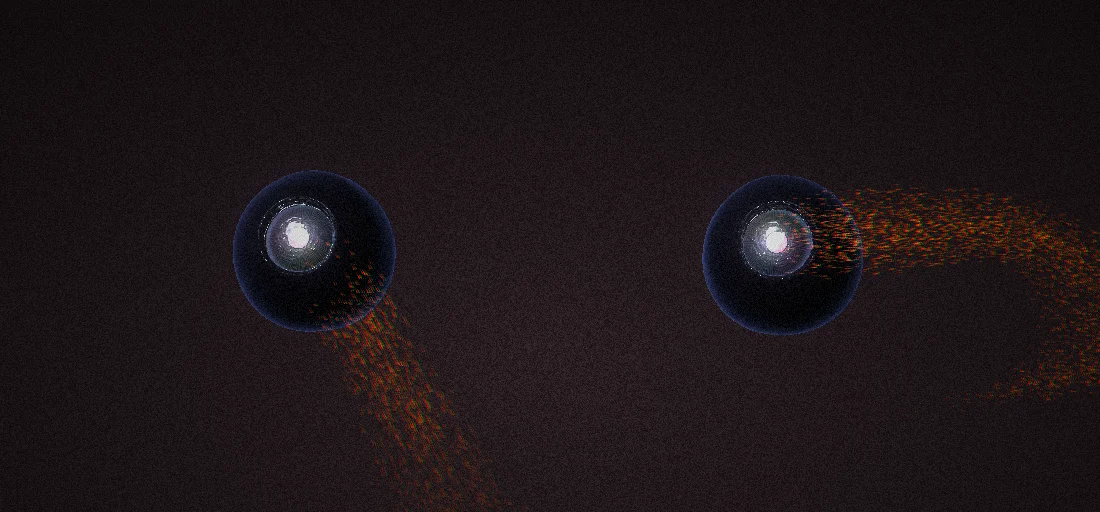
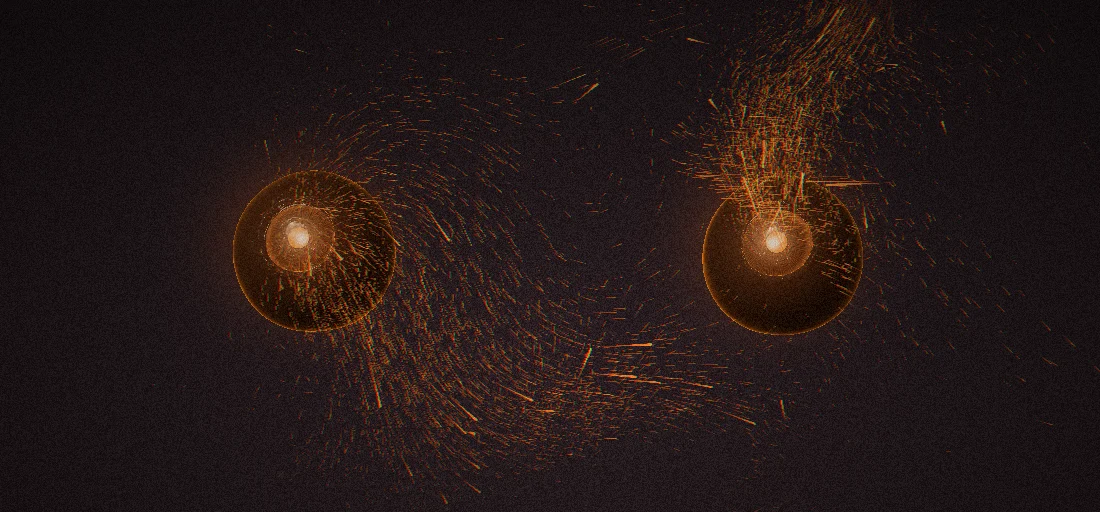
Now: the bonfire pours from the pupils and whirls across the screen
Each pupil throws its sparks out along its gaze, then the curl current takes
over. Most sparks burn out near the eye and a share travel to the corners.
Streaks are short hairline dashes plus one in eighty long bright ones. A
half-float buffer and a blended tone-map let dense fire turn gold without
clipping. The eyes are warm: a white-hot pupil, a crisp #fb710c rim and a
bloom. There is a 5 s warm-up, and the edge line is dimmed on this page.

diff --git a/src/stage/eyes.js b/src/stage/eyes.js
@@ -57,15 +57,15 @@ void main(){
   float phi = acos(clamp(normalize(vQ).z, -1., 1.)), alpha = atan(vQ.y, vQ.x), r = length(vQ.xy);
   vec3 g;
   if (c == 0) {                                   // sclera: dark glass, a cool rim, the faintest rings of latitude
-    g = vec3(.42, .52, .95)*rim*.55 + vec3(.5, .55, .75)*ndl*.06;
+    g = vec3(.984, .443, .047)*(pow(rim, 4.)*1.6 + rim*.25) + vec3(.6, .45, .38)*ndl*.07;   // a crisp #fb710c edge
   } else if (c == 2) {                            // iris: spokes of light in the fibres' colours, brightest at the pupil
     float fib = .5 + .5*sin(alpha*120. + sin(alpha*17.)*3.), limbus = exp(-pow(r - 5.4, 2.)*3.);
-    g = mix(vec3(.7, .85, 1.), wheel(alpha/6.2831853 + uTime*.035 + (vSide > .5 ? .5 : 0.)), .5)*(fib*.22 + .06)*(.5 + .5*exp(-(r - 1.7)*.5)) + vec3(.55, .7, 1.)*limbus*.32;
+    g = mix(vec3(1., .18, .05), vec3(.984, .443, .047), fib)*(fib*.3 + .08)*(.5 + .5*exp(-(r - 1.7)*.5)) + vec3(1., .5, .18)*limbus*.4;
   } else if (c == 3) {                            // the pupil: white-hot
-    g = mix(vec3(.95, .6, 1.), vec3(1.), smoothstep(1.4, .3, r))*.75;
+    g = mix(vec3(1., .45, .1), vec3(1., .97, .9), smoothstep(1.6, .2, r))*1.8;   // white-hot at the centre
   } else {                                        // the cornea: clear, a glint
     float spec = pow(clamp(dot(reflect(-l, n), v), 0., 1.), 80.);
-    g = vec3(.8, .95, 1.)*(spec*1.4 + rim*.12);
+    g = vec3(1., .88, .75)*spec*1.2 + vec3(.95, .45, .2)*rim*.1;
   }
   o = vec4(g, max(g.r, max(g.g, g.b)));
 }`;
@@ -96,7 +96,7 @@ uniform float uFade;
 out vec4 o;
 void main(){
   float r2 = dot(vQ, vQ);
-  vec3 g = (vec3(1., .92, 1.)*exp(-r2*90.)*.5 + vec3(.7, .55, 1.)*exp(-r2*14.)*.08)*uFade;
+  vec3 g = (vec3(1., .82, .6)*exp(-r2*90.)*.45 + vec3(1., .42, .12)*exp(-r2*8.)*.3)*uFade;   // a warm bloom round each pupil
   o = vec4(g, max(g.r, max(g.g, g.b)));
 }`;
 
@@ -110,7 +110,9 @@ float random(vec2 n, float offset){ return .5 - fract(sin(dot(n.xy + vec2(offset
 void main(){
   vec4 b = texture(uBase, vUv);
   vec3 bg = vec3(.149, .106, .122)*uFade;                       // #261b1f, the original's warm dark
-  vec3 c = bg*(1. - b.a) + b.rgb;
+  float m = max(b.r, max(b.g, b.b));
+  vec3 keep = b.rgb*(1. - exp(-1.3*m))/max(m, 1e-4), each = 1. - exp(-1.3*b.rgb);    // tone that keeps the hue, and tone that lets dense fire turn gold
+  vec3 c = bg*(1. - min(b.a, 1.)) + mix(keep, each, .45);                           // half of each: gold where it is dense, never a flat clip or cream
   c += vec3(.1*random(vUv, uTime))*uFade;                       // fine grain
   c *= mix(1., 1.1 - length(vUv - .5)*1.1, uFade);              // darker towards the corners
   c = max(c, 0.);
@@ -132,7 +134,7 @@ export function createEyes(canvas, mesh, json, { preserve = false, lite = false,
   const eye = program(gl, EYE_VS, EYE_FS), halo = program(gl, HALO_VS, HALO_FS);
   if (!eye || !halo) return null;
   // the original moves 262,144 particles; here half that on a desktop, an eighth on a phone, fewer in frozen review frames
-  const sparks = createSparks(gl, { count: preserve ? 8192 : lite ? 32768 : 131072, CAM, GLOW_FS });
+  const sparks = createSparks(gl, { count: preserve ? 8192 : lite ? 49152 : 131072, CAM, GLOW_FS });
   if (!sparks) return null;
 
   const vao = gl.createVertexArray(); gl.bindVertexArray(vao);
@@ -147,14 +149,15 @@ export function createEyes(canvas, mesh, json, { preserve = false, lite = false,
   const qvao = gl.createVertexArray(); gl.bindVertexArray(qvao);
   { gl.bindBuffer(gl.ARRAY_BUFFER, gl.createBuffer()); gl.bufferData(gl.ARRAY_BUFFER, new Float32Array([-1, -1, 1, -1, -1, 1, 1, 1]), gl.STATIC_DRAW); const l = final.a('aP'); gl.enableVertexAttribArray(l); gl.vertexAttribPointer(l, 2, gl.FLOAT, false, 0, 0); }
   // targets: the full frame (with depth) and two quarter-size buffers for the blur; remade when the size changes
-  const tex = (w, h) => { const t = gl.createTexture(); gl.bindTexture(gl.TEXTURE_2D, t); gl.texImage2D(gl.TEXTURE_2D, 0, gl.RGBA8, w, h, 0, gl.RGBA, gl.UNSIGNED_BYTE, null); gl.texParameteri(gl.TEXTURE_2D, gl.TEXTURE_MIN_FILTER, gl.LINEAR); gl.texParameteri(gl.TEXTURE_2D, gl.TEXTURE_MAG_FILTER, gl.LINEAR); gl.texParameteri(gl.TEXTURE_2D, gl.TEXTURE_WRAP_S, gl.CLAMP_TO_EDGE); gl.texParameteri(gl.TEXTURE_2D, gl.TEXTURE_WRAP_T, gl.CLAMP_TO_EDGE); return t; };
+  const hdr = !!gl.getExtension('EXT_color_buffer_float') || !!gl.getExtension('EXT_color_buffer_half_float');   // dense fire adds past 1: keep it, and tone it down at the end
+  const tex = (w, h, deep) => { const t = gl.createTexture(); gl.bindTexture(gl.TEXTURE_2D, t); if (deep && hdr) gl.texImage2D(gl.TEXTURE_2D, 0, gl.RGBA16F, w, h, 0, gl.RGBA, gl.HALF_FLOAT, null); else gl.texImage2D(gl.TEXTURE_2D, 0, gl.RGBA8, w, h, 0, gl.RGBA, gl.UNSIGNED_BYTE, null); gl.texParameteri(gl.TEXTURE_2D, gl.TEXTURE_MIN_FILTER, gl.LINEAR); gl.texParameteri(gl.TEXTURE_2D, gl.TEXTURE_MAG_FILTER, gl.LINEAR); gl.texParameteri(gl.TEXTURE_2D, gl.TEXTURE_WRAP_S, gl.CLAMP_TO_EDGE); gl.texParameteri(gl.TEXTURE_2D, gl.TEXTURE_WRAP_T, gl.CLAMP_TO_EDGE); return t; };
   const fbo = (t, depth) => { const f = gl.createFramebuffer(); gl.bindFramebuffer(gl.FRAMEBUFFER, f); gl.framebufferTexture2D(gl.FRAMEBUFFER, gl.COLOR_ATTACHMENT0, gl.TEXTURE_2D, t, 0); if (depth) gl.framebufferRenderbuffer(gl.FRAMEBUFFER, gl.DEPTH_ATTACHMENT, gl.RENDERBUFFER, depth); gl.bindFramebuffer(gl.FRAMEBUFFER, null); return f; };
   let post = null;
   const makePost = (W, H) => {
     if (post) { for (const t of post.tex) gl.deleteTexture(t); for (const f of post.fb) gl.deleteFramebuffer(f); gl.deleteRenderbuffer(post.depth); }
     const qw = Math.max(1, W >> 2), qh = Math.max(1, H >> 2), depth = gl.createRenderbuffer();
     gl.bindRenderbuffer(gl.RENDERBUFFER, depth); gl.renderbufferStorage(gl.RENDERBUFFER, gl.DEPTH_COMPONENT24, W, H);
-    const t = [tex(W, H), tex(qw, qh), tex(qw, qh)];
+    const t = [tex(W, H, true), tex(qw, qh), tex(qw, qh)];
     post = { W, H, qw, qh, depth, tex: t, fb: [fbo(t[0], depth), fbo(t[1]), fbo(t[2])] };
   };
   const pass = (pr, target, w, h, setup) => { gl.bindFramebuffer(gl.FRAMEBUFFER, target); gl.viewport(0, 0, w, h); gl.useProgram(pr.p); setup(pr.u); gl.drawArrays(gl.TRIANGLE_STRIP, 0, 4); };
@@ -199,10 +202,11 @@ export function createEyes(canvas, mesh, json, { preserve = false, lite = false,
       // the sparks: a fixed step, however the frames come; a frozen moment (review, reduced motion) is reached by
       // running the last five seconds before it, so it is the same every time
       if (!NO_SPARKS) {
-        const run = (from, to, most = Infinity) => { let k = from, n = 0; while (k + STEP <= to + 1e-9 && n++ < most) { k += STEP; sparks.step(k, { pupils: eyesAt(k).pupils, zmax: CAMERA - 25, speed: 0.55, freq: 0.0045, spawn: 7 }); } return k; };
+        const run = (from, to, most = Infinity) => { let k = from, n = 0; while (k + STEP <= to + 1e-9 && n++ < most) { k += STEP; const e = eyesAt(k); sparks.step(k, { pupils: e.pupils.map((p, i) => p.map((v, j) => v + e.gaze[i][j] * 3)), dirs: e.gaze,   // born at the face of each pupil and thrown out along its gaze
+           zmax: CAMERA - 25, speed: 0.4, freq: 0.0075, spawn: 5, push: 1.3, reach: 32, long: lite ? [0.25, 5] : [0.18, 4] }); } return k; };
         if (fixed.age != null) { if (simT !== time) { sparks.reset(); run(time - 1.5, time); simT = time; } }   // a frozen frame: the same second and a half before it, every time
         else {
-          if (simT == null) simT = run(time - 2, time);                // the first look already has the fire going
+          if (simT == null) simT = run(time - 5, time);                // the first look already has the fire going, across the whole screen
           else if (time - simT > 0.2) simT = time - STEP;              // after a pause, carry on rather than catch up
           simT = run(simT, time, 4);                                   // at most four steps a frame, as in the original
         }
@@ -224,10 +228,10 @@ export function createEyes(canvas, mesh, json, { preserve = false, lite = false,
       if (!NO_SPARKS) {
         const sp = { u: sparks.uniforms };
         gl.useProgram(sparks.program); cam(sp);
-        gl.uniform1f(sp.u.uGain, lite ? 0.5 : 0.6); gl.uniform1f(sp.u.uFade, fade);
+        gl.uniform1f(sp.u.uGain, lite ? 1.2 : 1.05); gl.uniform1f(sp.u.uFade, fade);
         gl.uniform4f(sp.u.uText, wr.left * s, (vh - wr.bottom) * s, wr.right * s, (vh - wr.top) * s);
         gl.uniform4f(sp.u.uNav, nr.left * s, (vh - nr.bottom) * s, nr.right * s, (vh - nr.top) * s);
-        sparks.draw([W / 2, H / 2], 0.55 * s);
+        sparks.draw([W / 2, H / 2], 0.38 * s, { trail: 8, pupils });
       }
 
       // and the bloom of light at each pupil

diff --git a/src/stage/sparks.js b/src/stage/sparks.js
@@ -38,7 +38,7 @@ vec3 curl(vec3 p){                                    // forward differences: fo
 
 const UPDATE_VS = `#version 300 es
 in vec4 aState; in float aSeed;                       // position, life; a fixed random number per particle
-uniform float uTime, uSpeed, uFreq, uSpawn, uZmax; uniform vec3 uPupil0, uPupil1;
+uniform float uTime, uSpeed, uFreq, uSpawn, uZmax, uPush, uReach; uniform vec2 uLong; uniform vec3 uPupil0, uPupil1, uDir0, uDir1;
 out vec4 oState; out vec4 oPrev; out float oSeed;
 ${NOISE}
 float hash(float n){ return fract(sin(n)*43758.5453123); }
@@ -51,12 +51,16 @@ void main(){
     float k = aSeed*7.13 + floor(uTime*13.)*1.618;
     vec3 r = vec3(hash(k), hash(k + 1.7), hash(k + 3.1))*2. - 1.;
     vec3 P = mod(floor(aSeed), 2.) < .5 ? uPupil0 : uPupil1;
-    s = vec4(P + normalize(r + 1e-4)*pow(hash(k + 4.3), .5)*uSpawn, 20. + 80.*hash(k + 5.9));
+    s = vec4(P + normalize(r + 1e-4)*pow(hash(k + 4.3), .5)*uSpawn, (3. + 37.*pow(hash(k + 5.9), 3.))*(hash(k + 7.7) < uLong.x ? uLong.y : 1.));   // most burn out near the eye; a share (uLong.x) live uLong.y times as long and travel far
     oPrev = vec4(s.xyz, s.w + 1.);                     // a fresh particle draws nothing on its first step
   } else {
     oPrev = s;
     vec3 q = s.xyz*uFreq + vec3(uTime*.17, uTime*.11, uTime*.13);
-    s.xyz += uSpeed*(curl(q)*.5 + curl(q*2.)*.25);    // a broad current with a finer one on top
+    bool left = mod(floor(aSeed), 2.) < .5;
+    vec3 P = left ? uPupil0 : uPupil1, D = left ? uDir0 : uDir1;
+    vec3 fan = vec3(hash(aSeed*3.7), hash(aSeed*5.3), hash(aSeed*9.1))*2. - 1.;          // each spark's own angle off the gaze
+    float jet = uPush*exp(-length(s.xyz - P)/uReach);                                   // thrown out of the pupil, then let go
+    s.xyz += uSpeed*(curl(q)*.5 + curl(q*2.3)*.4) + jet*normalize(D + .55*fan);       // a broad current with a finer one on top
     s.w = s.w - .05 <= 0. ? -.01 : s.w - .05;           // burnt out: born again on a later step
   }
   oState = s; oSeed = aSeed;
@@ -81,21 +85,24 @@ export function createSparks(gl, { count, CAM, GLOW_FS }) {
   const DRAW_VS = `#version 300 es
 in vec2 aCorner; in vec4 iState; in vec4 iPrev; in float iSeed;
 ${CAM}
-uniform vec2 uRes, uShift; uniform float uPx;
-out vec2 vLocal; out float vLen; out float vRad;
+uniform vec2 uRes, uShift; uniform float uPx, uTrail; uniform vec3 uPupil0, uPupil1;
+out vec2 vLocal; out float vLen; out float vRad; out float vNear; out float vBoost;
 void main(){
-  vec4 h = camera(iState.xyz), t = camera(iPrev.xyz);
+  bool big = fract(iSeed*.3819) > .9875;                                                   // one in eighty: a long, thick, bright streak
+  float trail = big ? uTrail : 2. + 2.*fract(iSeed*.7548);                                // the rest: short, crisp dashes, two to four steps
+  vec4 h = camera(iState.xyz), t = camera(iState.xyz + (iPrev.xyz - iState.xyz)*trail);   // drawn along its motion
   vec2 sh = h.xy/h.w*uRes, st = t.xy/t.w*uRes, d = sh - st; float L = length(d);
   vec2 dir = L > .001 ? d/L : vec2(1., 0.), nrm = vec2(-dir.y, dir.x);
-  float size = .5 + 1.5*fract(iSeed*.6180339), r = uPx*size*clamp(400./h.w, .25, 12.);   // nearer: wider, by perspective
+  float size = .5 + 1.5*fract(iSeed*.6180339), r = uPx*size*(big ? 1.8 : .75)*clamp(400./h.w, .25, 12.);   // dashes are hairlines; only the long streaks are thick   // nearer: wider, by perspective
   vec2 pos = mix(st - dir*r, sh + dir*r, aCorner.x) + nrm*aCorner.y*r;
   bool dead = iPrev.w < iState.w || iState.w <= 0. || h.w < 8.;
   gl_Position = dead ? vec4(2., 2., 2., 1.) : vec4((pos + uShift*uRes)/uRes*h.w, h.z/h.w*h.w, h.w);
-  vLocal = vec2(mix(-r, L + r, aCorner.x), aCorner.y*r); vLen = L; vRad = r;
+  vLocal = vec2(mix(-r, L + r, aCorner.x), aCorner.y*r); vLen = L; vRad = r; vBoost = big ? 2.5 : 1.;
+  vNear = smoothstep(1.5, 9., min(length(iState.xyz - uPupil0), length(iState.xyz - uPupil1)));   // the pupil itself stays clear: the fire leaves it
 }`;
   const DRAW_FS = `#version 300 es
 precision highp float;
-in vec2 vLocal; in float vLen; in float vRad;
+in vec2 vLocal; in float vLen; in float vRad; in float vNear; in float vBoost;
 uniform vec3 uMask;
 ${GLOW_FS}
 out vec4 o;
@@ -103,8 +110,8 @@ void main(){
   float a = clamp(vLocal.x/max(vLen, 1e-3), 0., 1.);                        // 0 at the tail, 1 at the head
   float r = vRad*mix(.1, 1., a), dist = length(vec2(vLocal.x - a*vLen, vLocal.y));
   float edge = 1. - smoothstep(r*.78, r, dist);
-  vec3 col = mix(vec3(1., 0., 0.), vec3(.984, .443, .047), .5 + .5*a);     // red at the tail, orange (#fb710c) at the head
-  float alpha = edge*a*uGain*clearOfWords()*uFade;
+  vec3 col = mix(vec3(1., .12, .08), vec3(1., .44, .12), .5 + .5*a);       // red at the tail, orange at the head: only the densest crowds add up to gold
+  float alpha = edge*a*uGain*clearOfWords()*uFade*vNear*vBoost;
   vec3 c = col*alpha*uMask;
   o = vec4(c, max(c.r, max(c.g, c.b)));
 }`;
@@ -133,11 +140,12 @@ void main(){
   return {
     program: dp.p, uniforms: dp.u,
     reset() { for (const b of bufs) { gl.bindBuffer(gl.ARRAY_BUFFER, b); gl.bufferSubData(gl.ARRAY_BUFFER, 0, init); } cur = 0; },
-    // one 1/60 s step; e: { pupils, zmax }
+    // one 1/60 s step; e: { pupils, dirs, zmax, speed, freq, spawn, push, reach, long: [share, times] }
     step(time, e) {
       gl.useProgram(up.p);
       gl.uniform1f(up.u.uTime, time); gl.uniform1f(up.u.uSpeed, e.speed); gl.uniform1f(up.u.uFreq, e.freq); gl.uniform1f(up.u.uSpawn, e.spawn); gl.uniform1f(up.u.uZmax, e.zmax);
-      gl.uniform3fv(up.u.uPupil0, e.pupils[0]); gl.uniform3fv(up.u.uPupil1, e.pupils[1]);
+      gl.uniform3fv(up.u.uPupil0, e.pupils[0]); gl.uniform3fv(up.u.uPupil1, e.pupils[1]); gl.uniform3fv(up.u.uDir0, e.dirs[0]); gl.uniform3fv(up.u.uDir1, e.dirs[1]);
+      gl.uniform1f(up.u.uPush, e.push); gl.uniform1f(up.u.uReach, e.reach); gl.uniform2fv(up.u.uLong, e.long);
       gl.bindVertexArray(upVao[cur]); gl.bindBuffer(gl.ARRAY_BUFFER, null);   // a buffer being written may not be bound anywhere else
       gl.bindTransformFeedback(gl.TRANSFORM_FEEDBACK, tf); gl.bindBufferBase(gl.TRANSFORM_FEEDBACK_BUFFER, 0, bufs[1 - cur]);
       gl.enable(gl.RASTERIZER_DISCARD); gl.beginTransformFeedback(gl.POINTS);
@@ -147,11 +155,12 @@ void main(){
       gl.bindVertexArray(null);
       cur = 1 - cur;
     },
-    // the caller has set the camera and fade uniforms on `program`; the split is drawn here, two pixels as in the original
-    draw(res, px) {
-      gl.uniform2fv(dp.u.uRes, res); gl.uniform1f(dp.u.uPx, px);
+    // the caller has set the camera and fade uniforms on `program`; the colour split is drawn here, a pixel wide
+    draw(res, px, e) {
+      gl.uniform2fv(dp.u.uRes, res); gl.uniform1f(dp.u.uPx, px); gl.uniform1f(dp.u.uTrail, e.trail);
+      gl.uniform3fv(dp.u.uPupil0, e.pupils[0]); gl.uniform3fv(dp.u.uPupil1, e.pupils[1]);
       gl.bindVertexArray(drawVao[cur]);
-      const split = 2 / res[0];
+      const split = 1 / res[0];
       for (const [mask, dx] of [[[1, 0, 0], -split], [[0, 1, 0], 0], [[0, 0, 1], split]]) {
         gl.colorMask(!!mask[0], !!mask[1], !!mask[2], true); gl.uniform3fv(dp.u.uMask, mask); gl.uniform2f(dp.u.uShift, dx, 0);
         gl.drawArraysInstanced(gl.TRIANGLE_STRIP, 0, 4, count);

diff --git a/src/styles/global.css b/src/styles/global.css
@@ -190,7 +190,7 @@ html[data-peer="about"] .heart-wrap{view-transition-name:heart}
 @media (max-width:820px){.art-wide{height:54svh}}
 
 /* on Clinical Experience the edge line would read as one more red string: there it steps back */
-html[data-art-page="hands"]::before{opacity:.22}
+html[data-art-page="hands"]::before,html[data-art-page="eyes"]::before{opacity:.22}
 @media (max-width:820px){html[data-art-page="hands"] .art-wide{margin-top:5vh}}   /* headroom under the way home */
 
 /* the scribbles behind the home page: fixed behind everything, faded in by the page script below the brain's shockwave,
